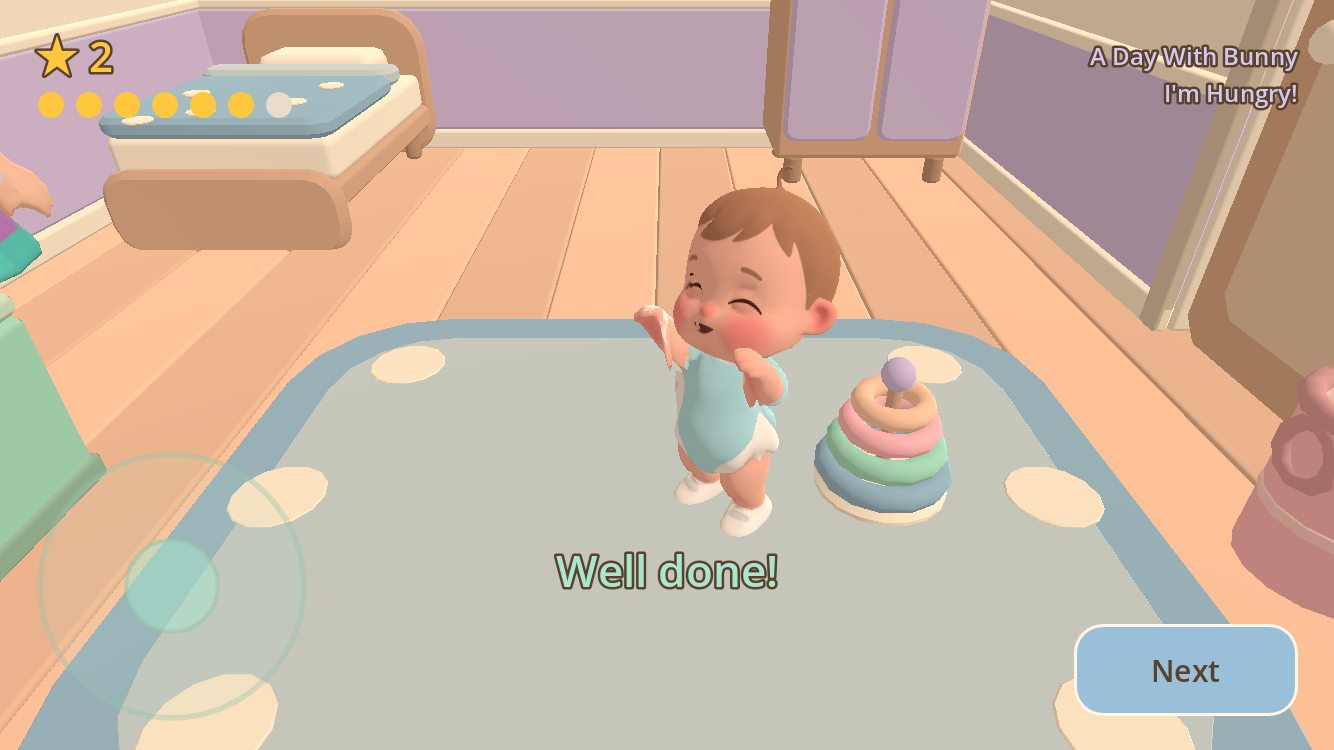
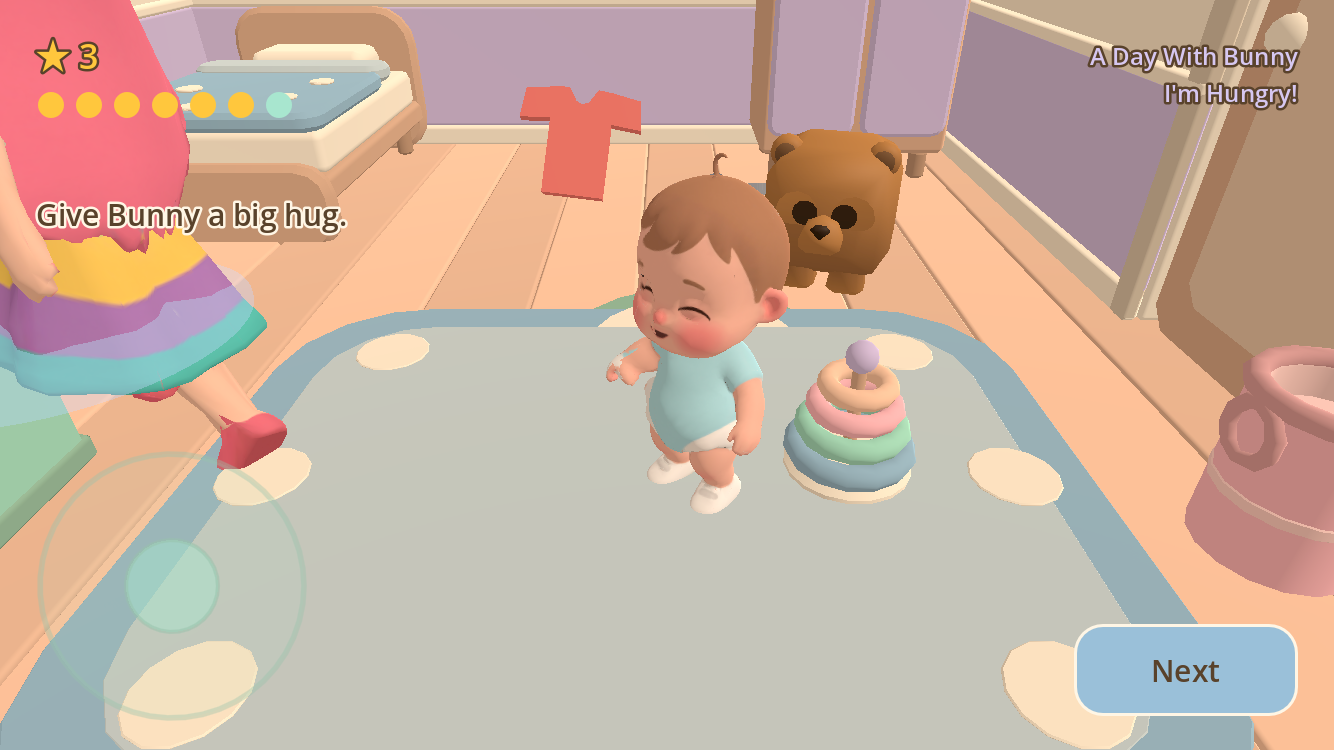
docs(feeding): evidence re-taken with the bubble suppressed, both viewports

diff --git a/docs/FEEDING_CLOSEUP_PASS.md b/docs/FEEDING_CLOSEUP_PASS.md
@@ -38,8 +38,11 @@ Mission 02 walkthroughs pass; suite 122/122.
 |---|---|
 | `docs/shots/feed_portrait_ipad.png` | 1334×750, opening frame |
 | `docs/shots/feed_portrait_iphone.png` | 2340×1080, opening frame |
-| `docs/shots/feed_portrait_mid_ipad.png` | half fed: arc filling on his face, drops, bar at 50% |
-| `docs/shots/feed_portrait_done_ipad.png` | finished: overlay gone, Bunny celebrating, star +1, need line gone |
+| `docs/shots/feed_portrait_mid_{ipad,iphone}.png` | half fed: arc filling on his face, drops, bar at 50% |
+| `docs/shots/feed_portrait_done_{ipad,iphone}.png` | finished: overlay gone, Bunny celebrating, star +1, need line gone |
+
+All six were re-taken after the bubble pass merged, so Bunny's need line is
+suppressed behind the overlay in every frame.
 
 Camera at the beat, iPad: distance **1.40 m**, binding `vertical` on the near
 floor corner, focus at his mouth (0.48, 0.52, 1.02).
@@ -50,7 +53,8 @@ floor corner, focus at his mouth (0.48, 0.52, 1.02).
   clip (hands up, head tipped) and the ring on his face are the reaction.
 - Aliz is cropped at the left edge of the portrait. She is behind the camera
   in the fiction; her hair and dress edge are what is visible.
-- The "I'm hungry!" 3D line overprints the title until the actor's
-  `set_bubble_suppressed()` (bubble pass) is merged; the director already calls it.
+- Bunny's need line is hidden while any care overlay is open
+  (`set_bubble_suppressed()`, from the bubble pass) and returns with the need
+  rule the moment the overlay closes.
 - The joystick ring is faintly visible through the bottom band, as it was
   through the old full scrim.
